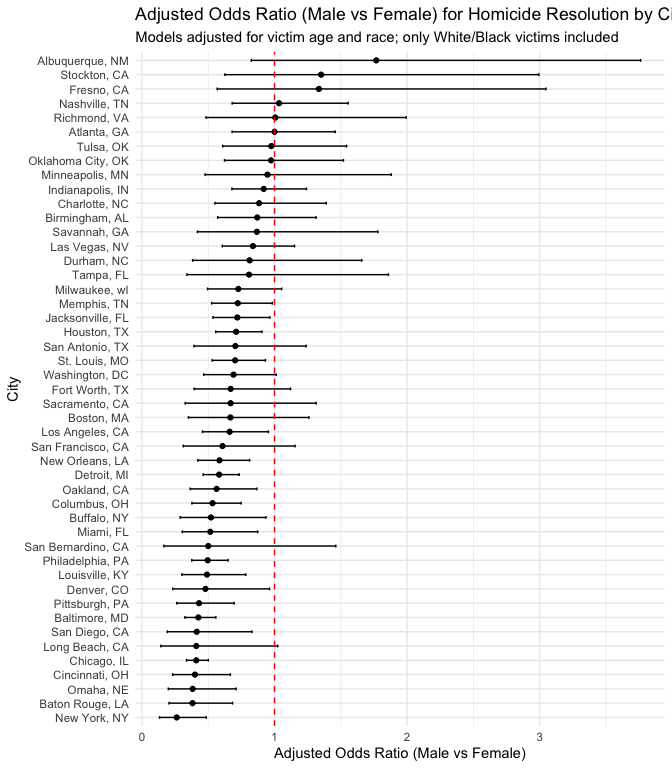
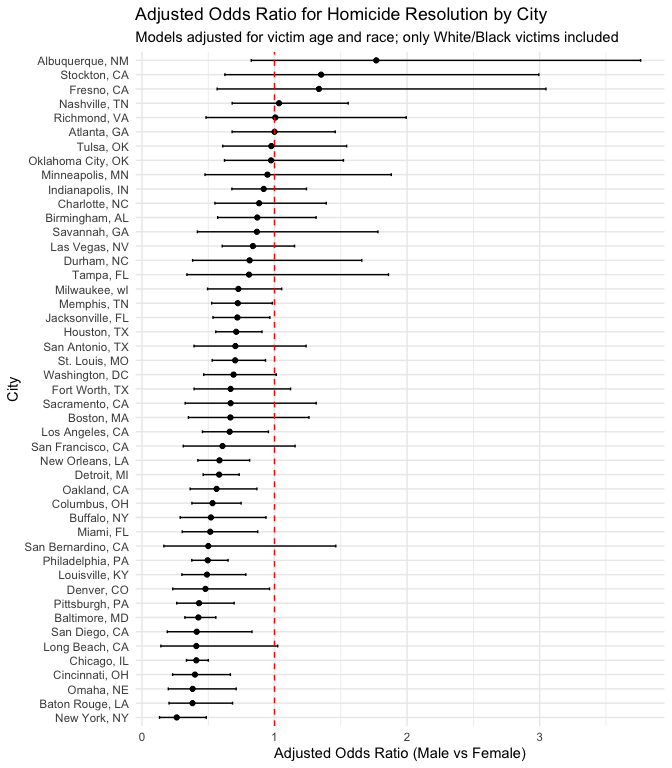
Completed assignment

Changed region(s): [[0.4375, 0.0, 1.0, 0.0312]]

diff --git a/homework6.md b/homework6.md
@@ -1,28 +1,20 @@
----
-title: "Homework 6: Homicides, Bootstrap Regression, and Birthweight Modeling"
-author: "Spencer Riddell"
-output:
-  github_document:
-    toc: true
-    toc_depth: 3
----
+Homework 6: Homicides, Bootstrap Regression, and Birthweight Modeling
+================
+Spencer Riddell
 
-```{r setup, include=FALSE}
-knitr::opts_chunk$set(echo = TRUE, message = FALSE, warning = FALSE)
-library(tidyverse)
-library(janitor)
-library(broom)
-library(purrr)
-library(glue)
-library(scales)
-library(patchwork)
-library(modelr)
-library(rsample)
-```
+- [Problem 1: Homicides in U.S.
+  Cities](#problem-1-homicides-in-us-cities)
+  - [Comments on the plot](#comments-on-the-plot)
+- [Problem 2: Bootstrap for Linear Regression
+  Metrics](#problem-2-bootstrap-for-linear-regression-metrics)
+  - [Description of distributions and 95%
+    intervals](#description-of-distributions-and-95-intervals)
+- [Problem 3: Birthweight Modeling](#problem-3-birthweight-modeling)
+  - [Modeling](#modeling)
 
 # Problem 1: Homicides in U.S. Cities
 
-```{r problem1-load}
+``` r
 homicides_url <- "https://raw.githubusercontent.com/washingtonpost/data-homicides/master/homicide-data.csv"
 
 homicides_raw <- read_csv(homicides_url, show_col_types = FALSE) |> 
@@ -31,7 +23,22 @@ homicides_raw <- read_csv(homicides_url, show_col_types = FALSE) |>
 glimpse(homicides_raw)
 ```
 
-```{r problem1-clean}
+    ## Rows: 52,179
+    ## Columns: 12
+    ## $ uid           <chr> "Alb-000001", "Alb-000002", "Alb-000003", "Alb-000004", …
+    ## $ reported_date <dbl> 20100504, 20100216, 20100601, 20100101, 20100102, 201001…
+    ## $ victim_last   <chr> "GARCIA", "MONTOYA", "SATTERFIELD", "MENDIOLA", "MULA", …
+    ## $ victim_first  <chr> "JUAN", "CAMERON", "VIVIANA", "CARLOS", "VIVIAN", "GERAL…
+    ## $ victim_race   <chr> "Hispanic", "Hispanic", "White", "Hispanic", "White", "W…
+    ## $ victim_age    <chr> "78", "17", "15", "32", "72", "91", "52", "52", "56", "4…
+    ## $ victim_sex    <chr> "Male", "Male", "Female", "Male", "Female", "Female", "M…
+    ## $ city          <chr> "Albuquerque", "Albuquerque", "Albuquerque", "Albuquerqu…
+    ## $ state         <chr> "NM", "NM", "NM", "NM", "NM", "NM", "NM", "NM", "NM", "N…
+    ## $ lat           <dbl> 35.09579, 35.05681, 35.08609, 35.07849, 35.13036, 35.151…
+    ## $ lon           <dbl> -106.5386, -106.7153, -106.6956, -106.5561, -106.5810, -…
+    ## $ disposition   <chr> "Closed without arrest", "Closed by arrest", "Closed wit…
+
+``` r
 # Create city_state; solved binary; filter cities and races; ensure victim_age numeric
 homicides <- homicides_raw |>
   mutate(
@@ -72,7 +79,12 @@ homicides_missing_summary <- homicides |>
 homicides_missing_summary
 ```
 
-```{r problem1-baltimore-glm}
+    ## # A tibble: 1 × 5
+    ##       n missing_age missing_sex missing_race missing_solved
+    ##   <int>       <int>       <int>        <int>          <int>
+    ## 1 39693         290          41            0              0
+
+``` r
 # Baltimore model: logistic regression with victim_age, victim_sex, victim_race
 baltimore_df <- homicides |> filter(city_state == "Baltimore, MD")
 
@@ -101,7 +113,13 @@ baltimore_or <- baltimore_tidy |>
 baltimore_or
 ```
 
-```{r problem1-all-cities}
+    ## # A tibble: 1 × 8
+    ##   city_state    term  estimate_logit conf_low_logit conf_high_logit    OR OR_low
+    ##   <chr>         <chr>          <dbl>          <dbl>           <dbl> <dbl>  <dbl>
+    ## 1 Baltimore, MD vict…         -0.854          -1.13          -0.584 0.426  0.324
+    ## # ℹ 1 more variable: OR_high <dbl>
+
+``` r
 # Fit model for each city; extract OR for male vs female
 city_models <- homicides |>
   group_by(city_state) |>
@@ -143,7 +161,19 @@ list(
 )
 ```
 
-```{r problem1-plot, fig.height=8}
+    ## $n_cities_total
+    ## [1] 47
+    ## 
+    ## $n_cities_with_or
+    ## [1] 47
+    ## 
+    ## $n_cities_missing_or
+    ## [1] 0
+    ## 
+    ## $missing_or_cities
+    ## character(0)
+
+``` r
 # Plot ORs and CIs per city ordered by OR
 city_or_plot <- city_or |>
   arrange(OR) |>
@@ -164,24 +194,45 @@ city_or_plot <- city_or |>
 city_or_plot
 ```
 
+![](homework6_files/figure-gfm/problem1-plot-1.png)<!-- -->
+
 ### Comments on the plot
 
-- The dashed line at OR = 1 indicates no difference in resolution odds between male and female victims after adjusting for age and race.
-- Cities to the right of the line (OR > 1) suggest higher odds of resolution for male victims relative to female victims; those to the left (OR < 1) suggest lower odds.
-- The width of the error bars reflects uncertainty; wide intervals may indicate limited data or variability.
-- Across the majority of cities, point estimates cluster close to 1 and confidence intervals frequently cross 1, implying that—after adjusting for victim age and race—sex is not a strong, consistent predictor of case resolution. This pattern suggests operational or investigative factors driving resolution are largely similar across male and female victims in most jurisdictions.
-- Significant cities all fall below OR = 1, indicating lower odds of resolution for male victims compared to female victims.
+- The dashed line at OR = 1 indicates no difference in resolution odds
+  between male and female victims after adjusting for age and race.
+- Cities to the right of the line (OR \> 1) suggest higher odds of
+  resolution for male victims relative to female victims; those to the
+  left (OR \< 1) suggest lower odds.
+- The width of the error bars reflects uncertainty; wide intervals may
+  indicate limited data or variability.
+- Across the majority of cities, point estimates cluster close to 1 and
+  confidence intervals frequently cross 1, implying that—after adjusting
+  for victim age and race—sex is not a strong, consistent predictor of
+  case resolution. This pattern suggests operational or investigative
+  factors driving resolution are largely similar across male and female
+  victims in most jurisdictions.
+- Significant cities all fall below OR = 1, indicating lower odds of
+  resolution for male victims compared to female victims.
 
 # Problem 2: Bootstrap for Linear Regression Metrics
 
-```{r problem2-load}
+``` r
 library(p8105.datasets)
 data("weather_df")
 
 glimpse(weather_df)
 ```
 
-```{r problem2-bootstrap}
+    ## Rows: 2,190
+    ## Columns: 6
+    ## $ name <chr> "CentralPark_NY", "CentralPark_NY", "CentralPark_NY", "CentralPar…
+    ## $ id   <chr> "USW00094728", "USW00094728", "USW00094728", "USW00094728", "USW0…
+    ## $ date <date> 2021-01-01, 2021-01-02, 2021-01-03, 2021-01-04, 2021-01-05, 2021…
+    ## $ prcp <dbl> 157, 13, 56, 5, 0, 0, 0, 0, 0, 0, 0, 0, 0, 0, 97, 198, 0, 0, 0, 5…
+    ## $ tmax <dbl> 4.4, 10.6, 3.3, 6.1, 5.6, 5.0, 5.0, 2.8, 2.8, 5.0, 2.8, 6.7, 6.1,…
+    ## $ tmin <dbl> 0.6, 2.2, 1.1, 1.7, 2.2, 1.1, -1.0, -2.7, -4.3, -1.6, -2.1, 0.6, …
+
+``` r
 set.seed(123)
 
 # Helper: fit model and extract R^2 and product of coefficients
@@ -219,7 +270,13 @@ boot_summary <- boot_results |>
 boot_summary
 ```
 
-```{r problem2-plots, fig.height=6}
+    ## # A tibble: 1 × 8
+    ##   r2_mean   r2_sd r2_q025 r2_q975 beta_prod_mean beta_prod_sd beta_prod_q025
+    ##     <dbl>   <dbl>   <dbl>   <dbl>          <dbl>        <dbl>          <dbl>
+    ## 1   0.941 0.00315   0.934   0.947       -0.00582      0.00117       -0.00823
+    ## # ℹ 1 more variable: beta_prod_q975 <dbl>
+
+``` r
 p_r2 <- boot_results |>
   ggplot(aes(x = r2)) +
   geom_histogram(bins = 40, fill = "steelblue", color = "white") +
@@ -247,14 +304,23 @@ p_beta_prod <- boot_results |>
 p_r2 + p_beta_prod
 ```
 
+![](homework6_files/figure-gfm/problem2-plots-1.png)<!-- -->
+
 ### Description of distributions and 95% intervals
 
-- The bootstrap R-squared is tightly concentrated around ~0.94 with a narrow 95% interval (≈0.935–0.946), indicating the model with tmin and prcp explains a large and consistently stable fraction of tmax variability.
-- The distribution of β̂1 × β̂2 centers near a small negative value with a symmetric spread (95% interval roughly −0.008 to −0.004), suggesting tmin’s positive effect and prcp’s negative effect yield a modestly negative product, and this combined magnitude is estimated with reasonable precision.
+- The bootstrap R-squared is tightly concentrated around ~0.94 with a
+  narrow 95% interval (≈0.935–0.946), indicating the model with tmin and
+  prcp explains a large and consistently stable fraction of tmax
+  variability.
+- The distribution of β̂1 × β̂2 centers near a small negative value with a
+  symmetric spread (95% interval roughly −0.008 to −0.004), suggesting
+  tmin’s positive effect and prcp’s negative effect yield a modestly
+  negative product, and this combined magnitude is estimated with
+  reasonable precision.
 
 # Problem 3: Birthweight Modeling
 
-```{r problem3-load}
+``` r
 birthweight_url <- "https://p8105.com/data/birthweight.csv"
 
 bw_raw <- read_csv(birthweight_url, show_col_types = FALSE) |> 
@@ -263,7 +329,30 @@ bw_raw <- read_csv(birthweight_url, show_col_types = FALSE) |>
 glimpse(bw_raw)
 ```
 
-```{r problem3-clean}
+    ## Rows: 4,342
+    ## Columns: 20
+    ## $ babysex  <dbl> 2, 1, 2, 1, 2, 1, 2, 2, 1, 1, 2, 1, 2, 1, 1, 2, 1, 2, 2, 2, 1…
+    ## $ bhead    <dbl> 34, 34, 36, 34, 34, 33, 33, 33, 36, 33, 35, 35, 35, 36, 35, 3…
+    ## $ blength  <dbl> 51, 48, 50, 52, 52, 52, 46, 49, 52, 50, 51, 51, 48, 53, 51, 4…
+    ## $ bwt      <dbl> 3629, 3062, 3345, 3062, 3374, 3374, 2523, 2778, 3515, 3459, 3…
+    ## $ delwt    <dbl> 177, 156, 148, 157, 156, 129, 126, 140, 146, 169, 130, 146, 1…
+    ## $ fincome  <dbl> 35, 65, 85, 55, 5, 55, 96, 5, 85, 75, 55, 55, 75, 75, 65, 75,…
+    ## $ frace    <dbl> 1, 2, 1, 1, 1, 1, 2, 1, 1, 2, 1, 1, 1, 1, 1, 2, 1, 1, 1, 2, 1…
+    ## $ gaweeks  <dbl> 39.9, 25.9, 39.9, 40.0, 41.6, 40.7, 40.3, 37.4, 40.3, 40.7, 4…
+    ## $ malform  <dbl> 0, 0, 0, 0, 0, 0, 0, 0, 0, 0, 0, 0, 0, 0, 0, 0, 0, 0, 0, 0, 0…
+    ## $ menarche <dbl> 13, 14, 12, 14, 13, 12, 14, 12, 11, 12, 13, 12, 13, 11, 12, 1…
+    ## $ mheight  <dbl> 63, 65, 64, 64, 66, 66, 72, 62, 61, 64, 67, 62, 64, 68, 62, 6…
+    ## $ momage   <dbl> 36, 25, 29, 18, 20, 23, 29, 19, 13, 19, 23, 16, 28, 23, 21, 1…
+    ## $ mrace    <dbl> 1, 2, 1, 1, 1, 1, 2, 1, 1, 2, 1, 1, 1, 1, 1, 2, 1, 1, 1, 2, 1…
+    ## $ parity   <dbl> 3, 0, 0, 0, 0, 0, 0, 0, 0, 0, 0, 0, 0, 0, 0, 0, 0, 0, 0, 0, 0…
+    ## $ pnumlbw  <dbl> 0, 0, 0, 0, 0, 0, 0, 0, 0, 0, 0, 0, 0, 0, 0, 0, 0, 0, 0, 0, 0…
+    ## $ pnumsga  <dbl> 0, 0, 0, 0, 0, 0, 0, 0, 0, 0, 0, 0, 0, 0, 0, 0, 0, 0, 0, 0, 0…
+    ## $ ppbmi    <dbl> 26.27184, 21.34485, 23.56517, 21.84508, 21.02642, 18.60030, 1…
+    ## $ ppwt     <dbl> 148, 128, 137, 127, 130, 115, 105, 119, 105, 145, 110, 115, 1…
+    ## $ smoken   <dbl> 0.000, 0.000, 1.000, 10.000, 1.000, 0.000, 0.000, 0.000, 0.00…
+    ## $ wtgain   <dbl> 29, 28, 11, 30, 26, 14, 21, 21, 41, 24, 20, 31, 23, 21, 24, 2…
+
+``` r
 # Convert appropriate variables to factors; check missingness
 bw <- bw_raw |>
   mutate(
@@ -283,7 +372,26 @@ bw_missing_summary <- bw |>
 bw_missing_summary |> head(15)
 ```
 
-```{r problem3-model-proposal}
+    ## # A tibble: 15 × 2
+    ##    variable n_missing
+    ##    <chr>        <int>
+    ##  1 babysex          0
+    ##  2 bhead            0
+    ##  3 blength          0
+    ##  4 bwt              0
+    ##  5 delwt            0
+    ##  6 fincome          0
+    ##  7 frace            0
+    ##  8 gaweeks          0
+    ##  9 malform          0
+    ## 10 menarche         0
+    ## 11 mheight          0
+    ## 12 momage           0
+    ## 13 mrace            0
+    ## 14 parity           0
+    ## 15 pnumlbw          0
+
+``` r
 # Exploratory correlations for numeric predictors
 numeric_vars <- bw |> select(where(is.numeric))
 cor_mat <- cor(numeric_vars, use = "pairwise.complete.obs")
@@ -303,7 +411,38 @@ model_main <- lm(
 summary(model_main)
 ```
 
-```{r problem3-compare-models}
+    ## 
+    ## Call:
+    ## lm(formula = bwt ~ bhead + blength + gaweeks + babysex + ppbmi + 
+    ##     wtgain + smoken + mrace + parity + momage, data = bw)
+    ## 
+    ## Residuals:
+    ##      Min       1Q   Median       3Q      Max 
+    ## -1077.17  -186.30    -4.32   177.67  2398.08 
+    ## 
+    ## Coefficients:
+    ##                    Estimate Std. Error t value Pr(>|t|)    
+    ## (Intercept)      -5782.2643   102.7580 -56.271  < 2e-16 ***
+    ## bhead              131.9708     3.4655  38.081  < 2e-16 ***
+    ## blength             76.5364     2.0187  37.914  < 2e-16 ***
+    ## gaweeks             11.3419     1.4735   7.697 1.71e-14 ***
+    ## babysexFemale       31.4428     8.5072   3.696 0.000222 ***
+    ## ppbmi                6.8647     1.3439   5.108 3.40e-07 ***
+    ## wtgain               4.1303     0.3965  10.418  < 2e-16 ***
+    ## smoken              -4.6182     0.5883  -7.850 5.22e-15 ***
+    ## mraceBlack        -142.8886     9.8033 -14.575  < 2e-16 ***
+    ## mraceAsian        -103.8852    42.7699  -2.429 0.015184 *  
+    ## mracePuertoRican  -134.8342    18.8633  -7.148 1.03e-12 ***
+    ## parity              87.1489    40.6902   2.142 0.032268 *  
+    ## momage               1.8033     1.1728   1.538 0.124212    
+    ## ---
+    ## Signif. codes:  0 '***' 0.001 '**' 0.01 '*' 0.05 '.' 0.1 ' ' 1
+    ## 
+    ## Residual standard error: 274.2 on 4329 degrees of freedom
+    ## Multiple R-squared:  0.7142, Adjusted R-squared:  0.7134 
+    ## F-statistic: 901.7 on 12 and 4329 DF,  p-value: < 2.2e-16
+
+``` r
 # Alternative models:
 model_len_ga <- lm(bwt ~ blength + gaweeks, data = bw)
 model_interact <- lm(bwt ~ bhead * blength * babysex, data = bw)
@@ -348,7 +487,13 @@ cv_summary <- cv_results |>
 cv_summary
 ```
 
-```{r problem3-compare-plot, fig.height=5}
+    ## # A tibble: 1 × 6
+    ##   rmse_main_mean rmse_main_sd rmse_len_ga_mean rmse_len_ga_sd rmse_interact_mean
+    ##            <dbl>        <dbl>            <dbl>          <dbl>              <dbl>
+    ## 1           276.         10.1             334.           17.0               290.
+    ## # ℹ 1 more variable: rmse_interact_sd <dbl>
+
+``` r
 cv_long <- cv_results |>
   pivot_longer(cols = starts_with("rmse_"), names_to = "model", values_to = "rmse") |>
   mutate(model = recode(model,
@@ -366,8 +511,17 @@ ggplot(cv_long, aes(x = model, y = rmse)) +
   theme_minimal()
 ```
 
+![](homework6_files/figure-gfm/problem3-compare-plot-1.png)<!-- -->
+
 ### Modeling
 
-- I included key physiological predictors (head circumference, length, gestational age) and maternal risk factors (BMI, weight gain, smoking), plus parity and maternal age.
-- The proposed model yields the lowest and most stable RMSE, indicating superior and more consistent birthweight predictions compared to the other models.
-- The interaction model (Head × Length × Sex) improves over the simple Length + Gestational age baseline, but still underperforms the proposed model, highlighting the added value of maternal and behavioral covariates.
+- I included key physiological predictors (head circumference, length,
+  gestational age) and maternal risk factors (BMI, weight gain,
+  smoking), plus parity and maternal age.
+- The proposed model yields the lowest and most stable RMSE, indicating
+  superior and more consistent birthweight predictions compared to the
+  other models.
+- The interaction model (Head × Length × Sex) improves over the simple
+  Length + Gestational age baseline, but still underperforms the
+  proposed model, highlighting the added value of maternal and
+  behavioral covariates.
